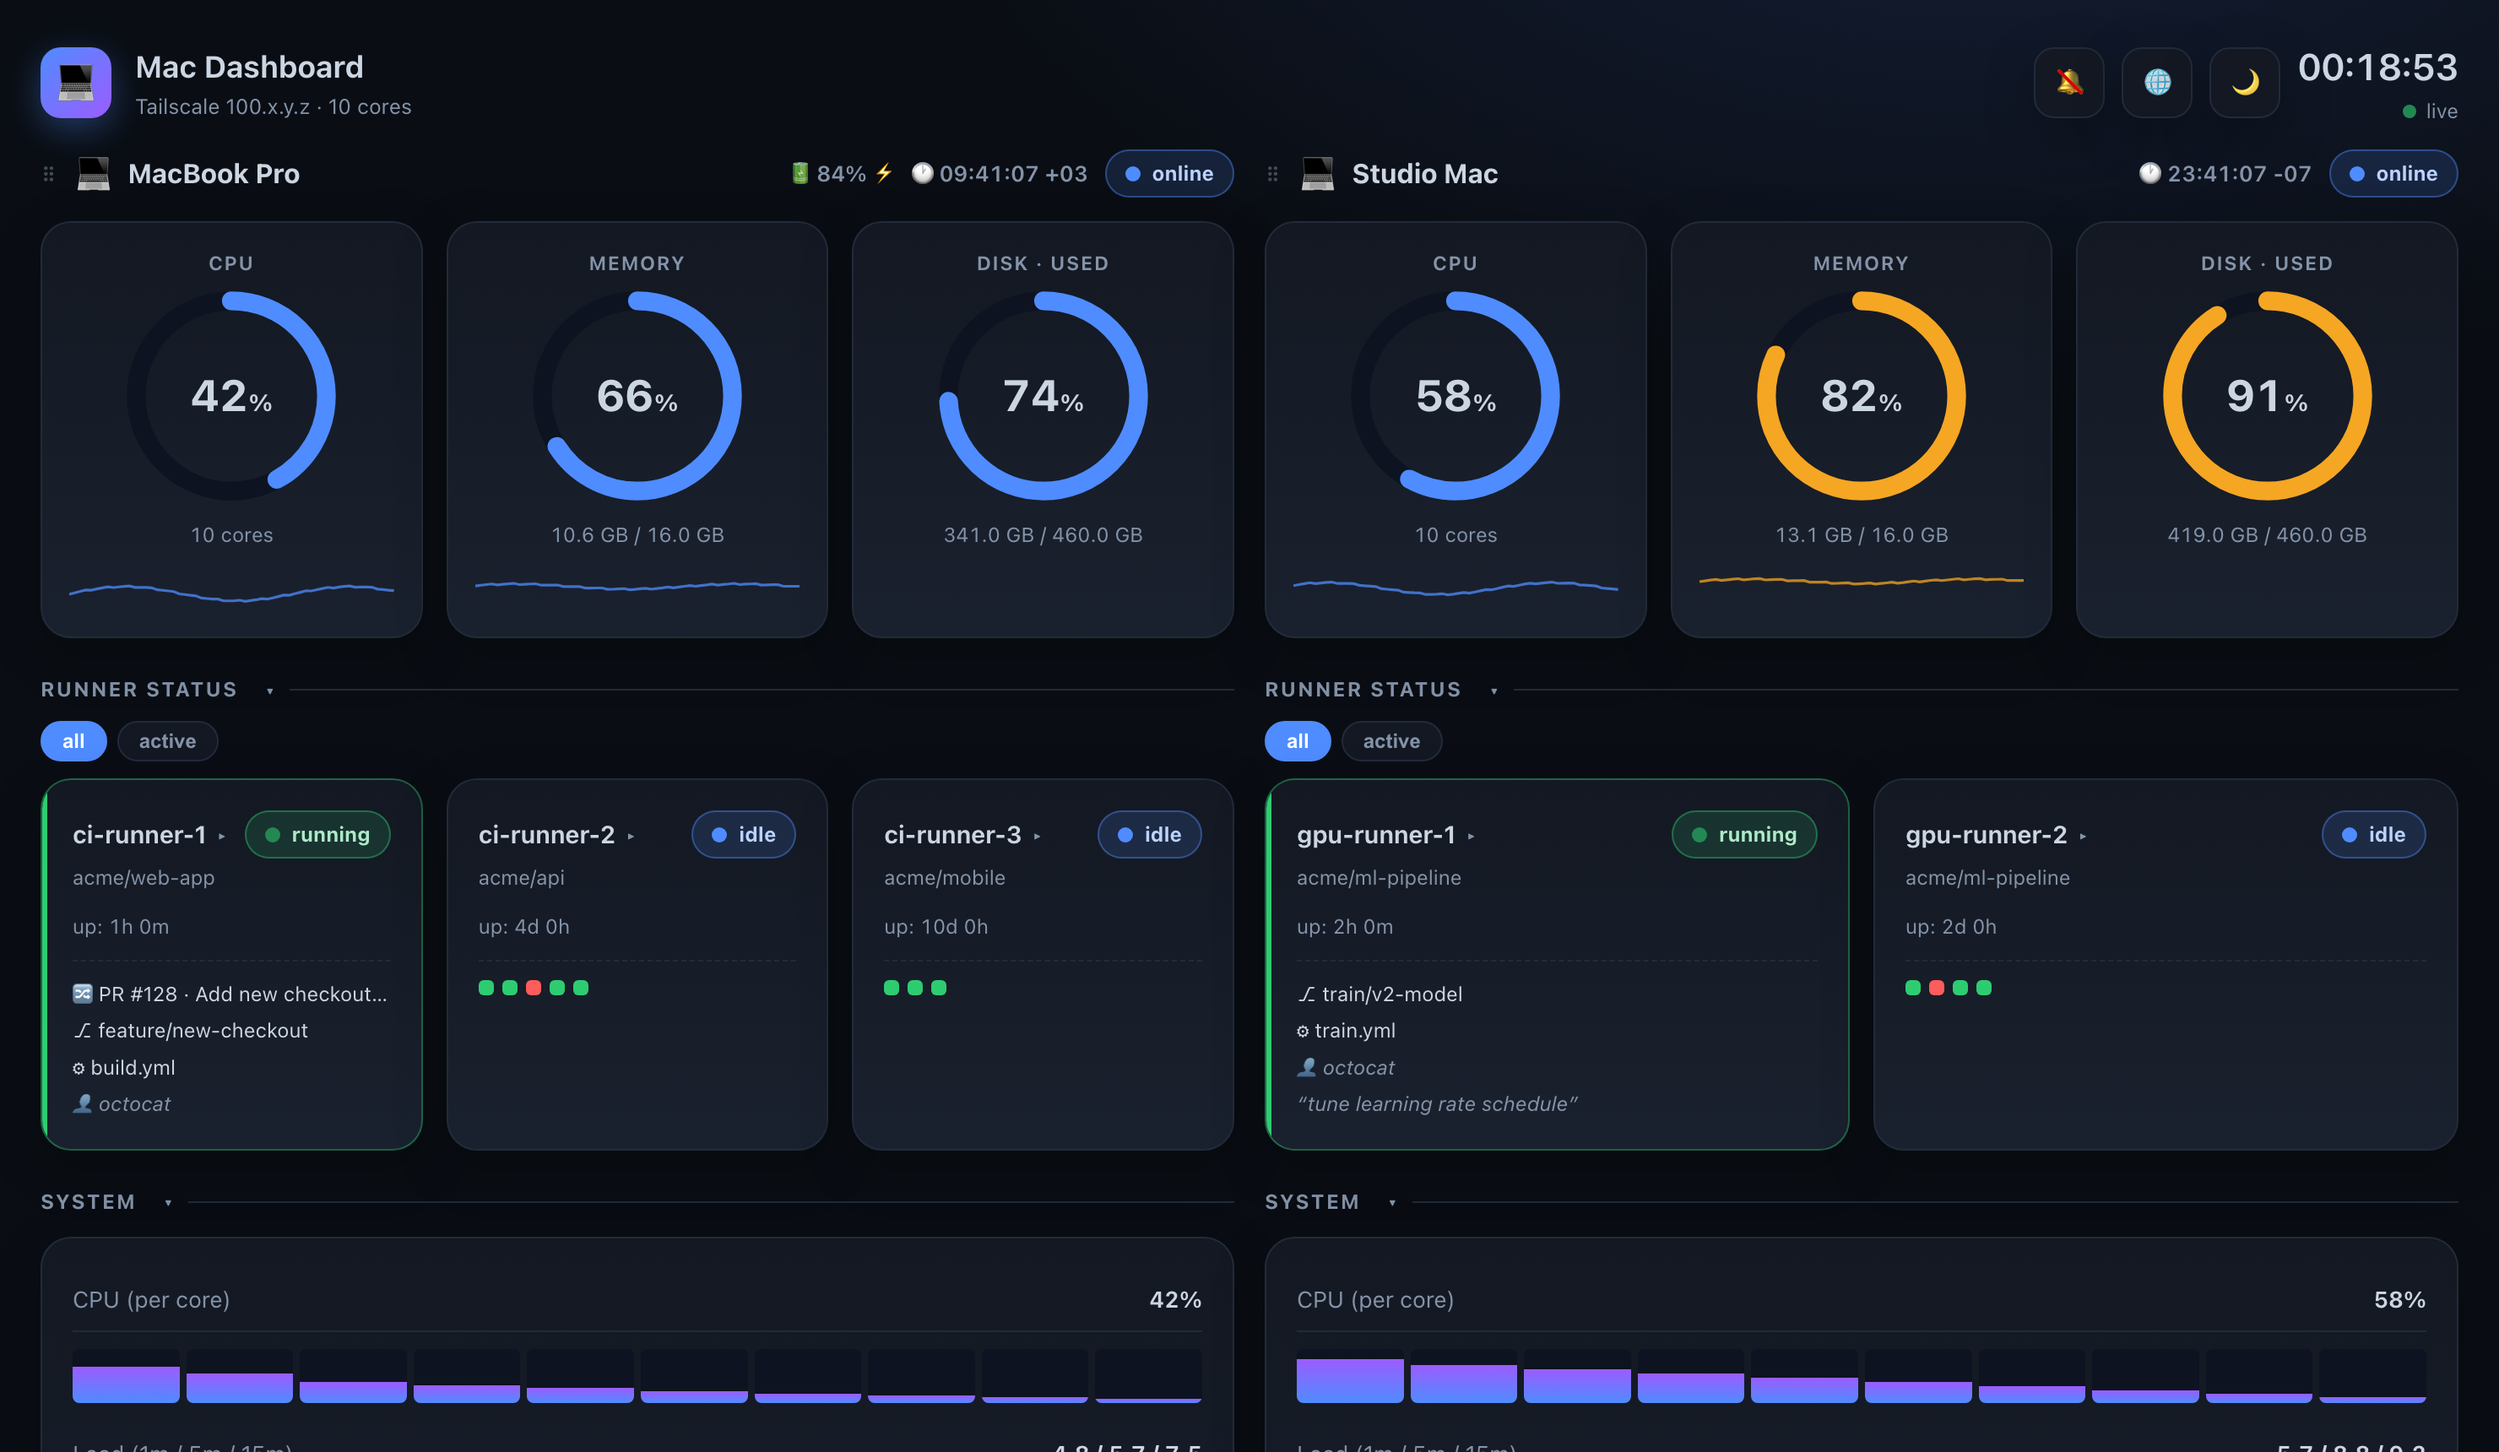
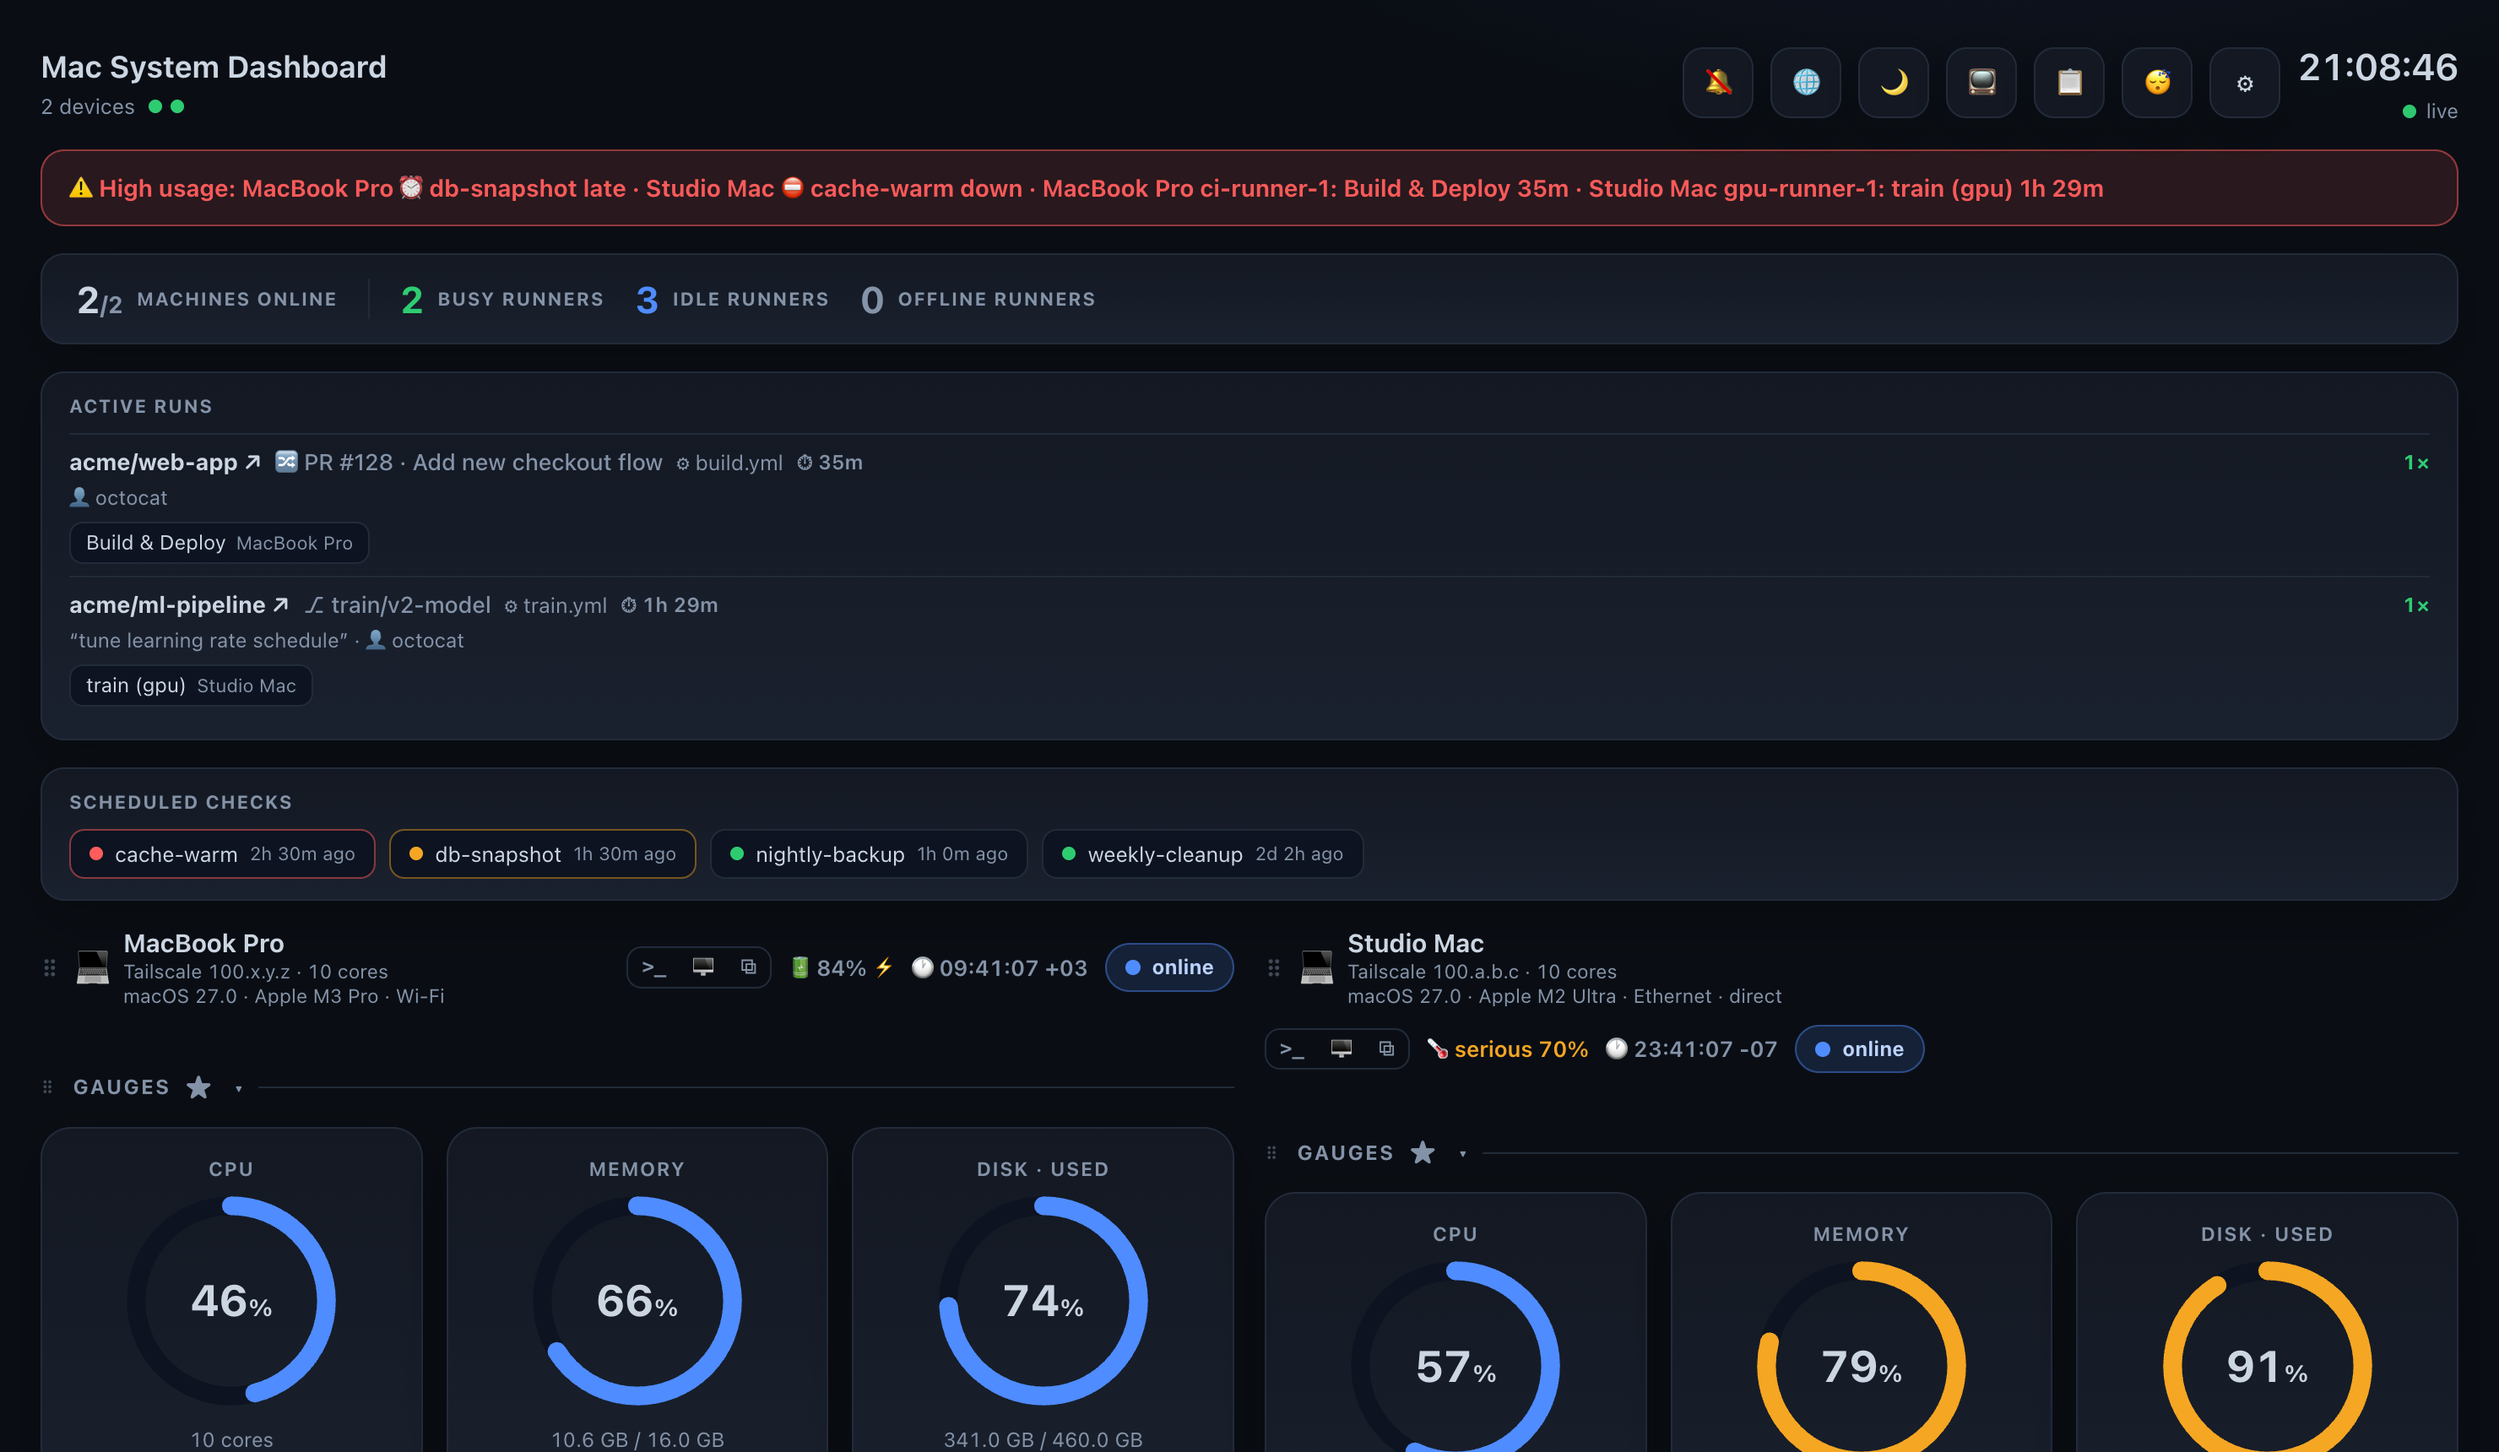
docs: refresh screenshots with machine info and AI quota (#92) (#97)

diff --git a/index.html b/index.html
@@ -522,7 +522,7 @@ const lastData={};  // base -> {data, online}
 const DEMO_MODE=window.SYSDASH_DEMO===true||new URLSearchParams(location.search).has('demo');
 const GiB=1073741824;
 function demoHist(base,amp,seed){return Array.from({length:60},(_,i)=>Math.max(4,Math.min(97,base+amp*Math.sin((i+seed)/6.5)+(i%4)*1.2)));}
-const DEMO_A={version:'1.0.0',host:'MacBook Pro',localtime:'09:41:07',tz:'+03',tailscale_ip:'100.x.y.z',user:'dev',
+const DEMO_A={version:'1.0.0',host:'MacBook Pro',macos:'27.0',chip:'Apple M3 Pro',link:{type:'wifi',iface:'en0'},localtime:'09:41:07',tz:'+03',tailscale_ip:'100.x.y.z',user:'dev',
   uptime:25*86400+16*3600,cpu:{pct:42,cores:[68,55,40,33,28,22,18,14,11,9],count:10,load:[4.8,5.7,7.5]},
   mem:{pct:66,used:10.6*GiB,total:16*GiB},swap:{pct:31,used:6.2*GiB,total:20*GiB},
   disk:{pct:74,used:341*GiB,total:460*GiB},battery:{pct:84,plugged:true,secsleft:null},
@@ -536,7 +536,7 @@ const DEMO_A={version:'1.0.0',host:'MacBook Pro',localtime:'09:41:07',tz:'+03',t
   top:[{name:'node',rss:1.0*GiB,cpu:12.5},{name:'Chrome',rss:0.62*GiB,cpu:4.2},{name:'figma',rss:0.5*GiB,cpu:2.1},{name:'python',rss:0.34*GiB,cpu:45.0},{name:'Slack',rss:0.28*GiB,cpu:1.0},{name:'Docker',rss:0.21*GiB,cpu:0.5},{name:'Terminal',rss:0.12*GiB,cpu:0.1},{name:'Music',rss:0.1*GiB,cpu:0.8}],
   top_cpu:[{name:'python',rss:0.34*GiB,cpu:45.0},{name:'node',rss:1.0*GiB,cpu:12.5},{name:'Chrome',rss:0.62*GiB,cpu:4.2},{name:'figma',rss:0.5*GiB,cpu:2.1},{name:'Slack',rss:0.28*GiB,cpu:1.0},{name:'Music',rss:0.1*GiB,cpu:0.8},{name:'Docker',rss:0.21*GiB,cpu:0.5},{name:'Terminal',rss:0.12*GiB,cpu:0.1}],
   top_groups:[{name:'Google Chrome',rss:2.2*GiB,cpu:8.0,procs:41},{name:'node',rss:1.0*GiB,cpu:12.5,procs:3},{name:'figma',rss:0.5*GiB,cpu:2.1,procs:2},{name:'claude',rss:0.46*GiB,cpu:2.0,procs:4},{name:'python',rss:0.34*GiB,cpu:45.0,procs:1},{name:'Slack',rss:0.28*GiB,cpu:1.0,procs:3}]};
-const DEMO_B={version:'1.0.0',host:'Studio Mac',localtime:'23:41:07',tz:'-07',tailscale_ip:'100.a.b.c',user:'studio',
+const DEMO_B={version:'1.0.0',host:'Studio Mac',macos:'27.0',chip:'Apple M2 Ultra',link:{type:'ethernet',iface:'en0'},localtime:'23:41:07',tz:'-07',tailscale_ip:'100.a.b.c',user:'studio',
   uptime:11*86400+12*3600,cpu:{pct:58,cores:[82,71,63,55,47,39,31,24,18,12],count:10,load:[5.7,8.8,9.2]},
   mem:{pct:82,used:13.1*GiB,total:16*GiB},swap:{pct:55,used:8.2*GiB,total:15*GiB},
   disk:{pct:91,used:419*GiB,total:460*GiB},battery:null,
@@ -549,7 +549,7 @@ const DEMO_B={version:'1.0.0',host:'Studio Mac',localtime:'23:41:07',tz:'-07',ta
   top:[{name:'python',rss:4.2*GiB,cpu:85.0},{name:'node',rss:0.8*GiB,cpu:5.0},{name:'Xcode',rss:0.6*GiB,cpu:15.2},{name:'Chrome',rss:0.4*GiB,cpu:2.1},{name:'Docker',rss:0.3*GiB,cpu:1.0},{name:'java',rss:0.2*GiB,cpu:8.4},{name:'Finder',rss:0.1*GiB,cpu:0.1},{name:'Notes',rss:0.08*GiB,cpu:0.1}],
   top_cpu:[{name:'python',rss:4.2*GiB,cpu:85.0},{name:'Xcode',rss:0.6*GiB,cpu:15.2},{name:'java',rss:0.2*GiB,cpu:8.4},{name:'node',rss:0.8*GiB,cpu:5.0},{name:'Chrome',rss:0.4*GiB,cpu:2.1},{name:'Docker',rss:0.3*GiB,cpu:1.0},{name:'Finder',rss:0.1*GiB,cpu:0.1},{name:'Notes',rss:0.08*GiB,cpu:0.1}],
   top_groups:[{name:'python',rss:4.2*GiB,cpu:85.0,procs:1},{name:'Google Chrome',rss:1.1*GiB,cpu:3.4,procs:18},{name:'node',rss:0.8*GiB,cpu:5.0,procs:2},{name:'Xcode',rss:0.6*GiB,cpu:15.2,procs:5},{name:'Docker',rss:0.3*GiB,cpu:1.0,procs:2},{name:'java',rss:0.2*GiB,cpu:8.4,procs:1}]};
-const DEMO_HOSTS=[{name:'',base:'',self:true,_d:DEMO_A},{name:'',base:'demo-b',self:false,_d:DEMO_B}];
+const DEMO_HOSTS=[{name:'',base:'',self:true,_d:DEMO_A},{name:'',base:'demo-b',self:false,path:'direct',_d:DEMO_B}];
 
 // ?demo: gently animate the sample data each tick so the demo feels alive.
 // Mean-reverting jitter around the static centers — lively but always bounded.
